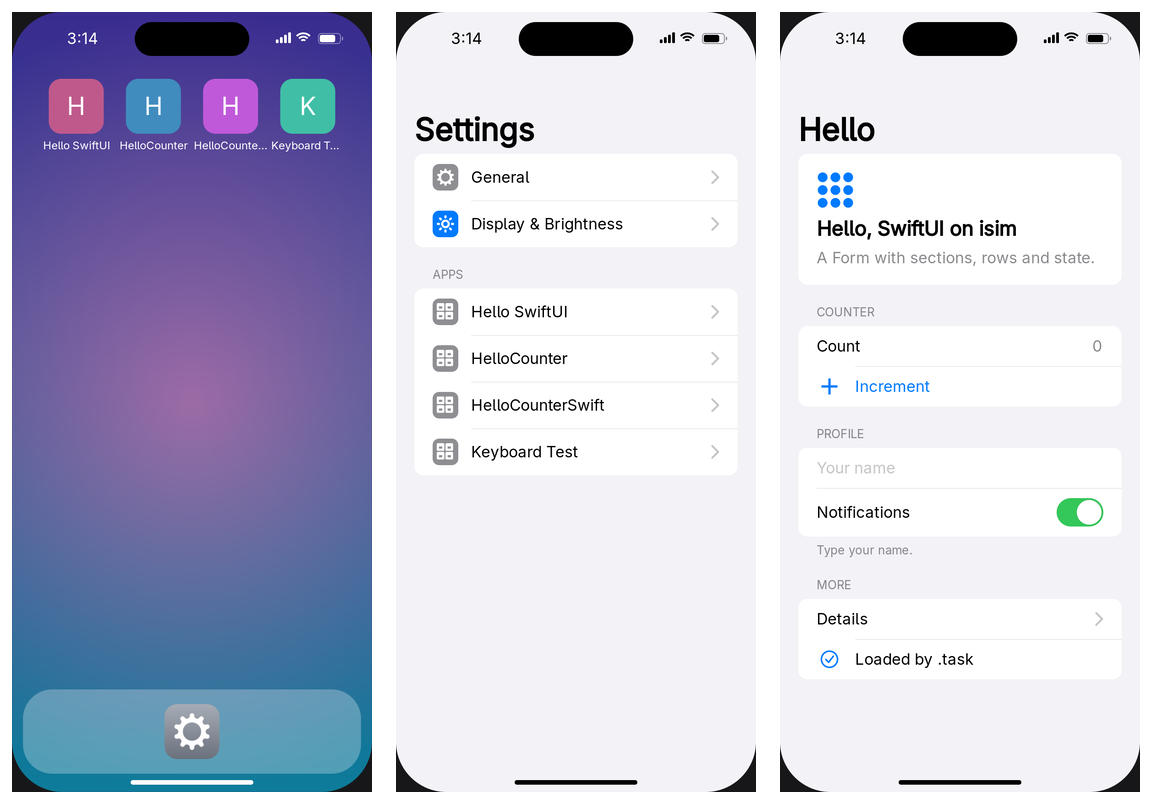
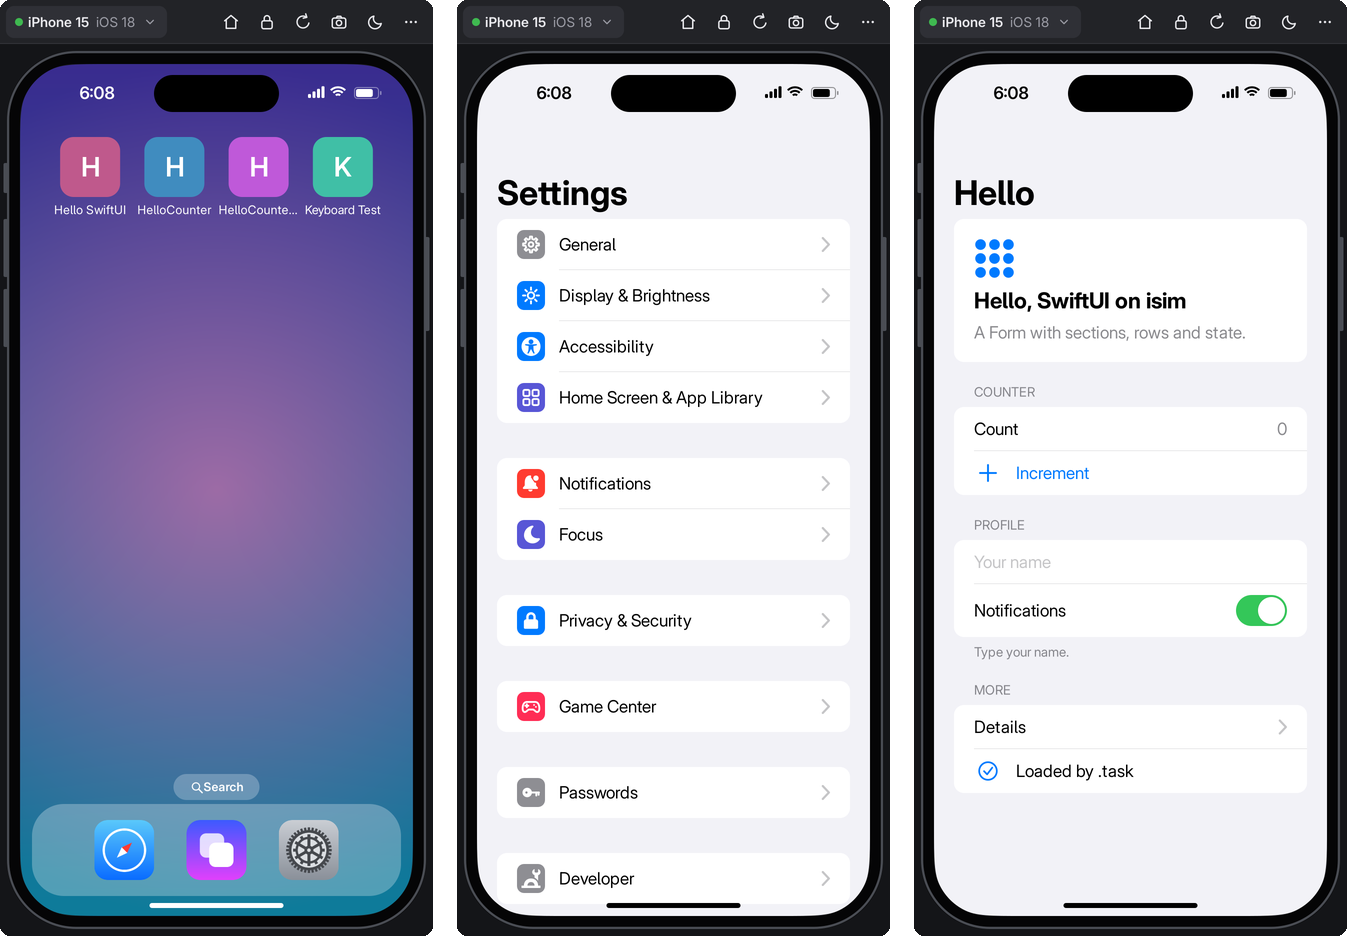
README: overview screenshot with the new window (toolbar, device bezel)
Claude-Session: https://claude.ai/code/session_01CuqDQYjkHqQtEvgQCLLCVm

Changed region(s): [[0.0, 0.0, 1.0, 1.0]]

diff --git a/README.md b/README.md
@@ -8,7 +8,7 @@ on a simulated iPhone or iPad with a home screen, a Settings app and a web brows
 
 Goal: write → build → run in the simulator → device build → sign → upload → TestFlight, all on Linux.
 
-![isim: home screen, Settings, and a SwiftUI app](docs/images/isim-overview.png)
+![isim windows with the toolbar and device bezel: the home screen, Settings, and a SwiftUI app](docs/images/isim-overview.png)
 
 ## Quick start (no build needed)
 
